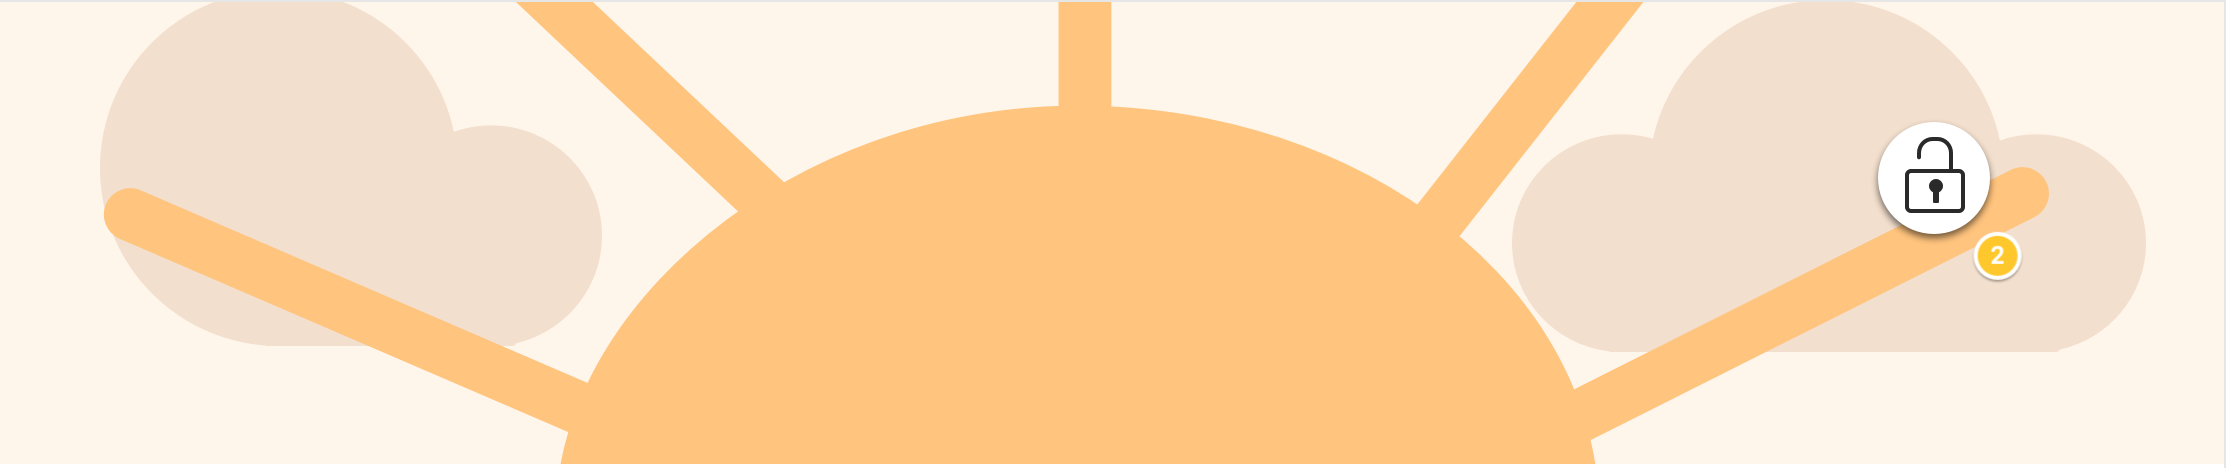
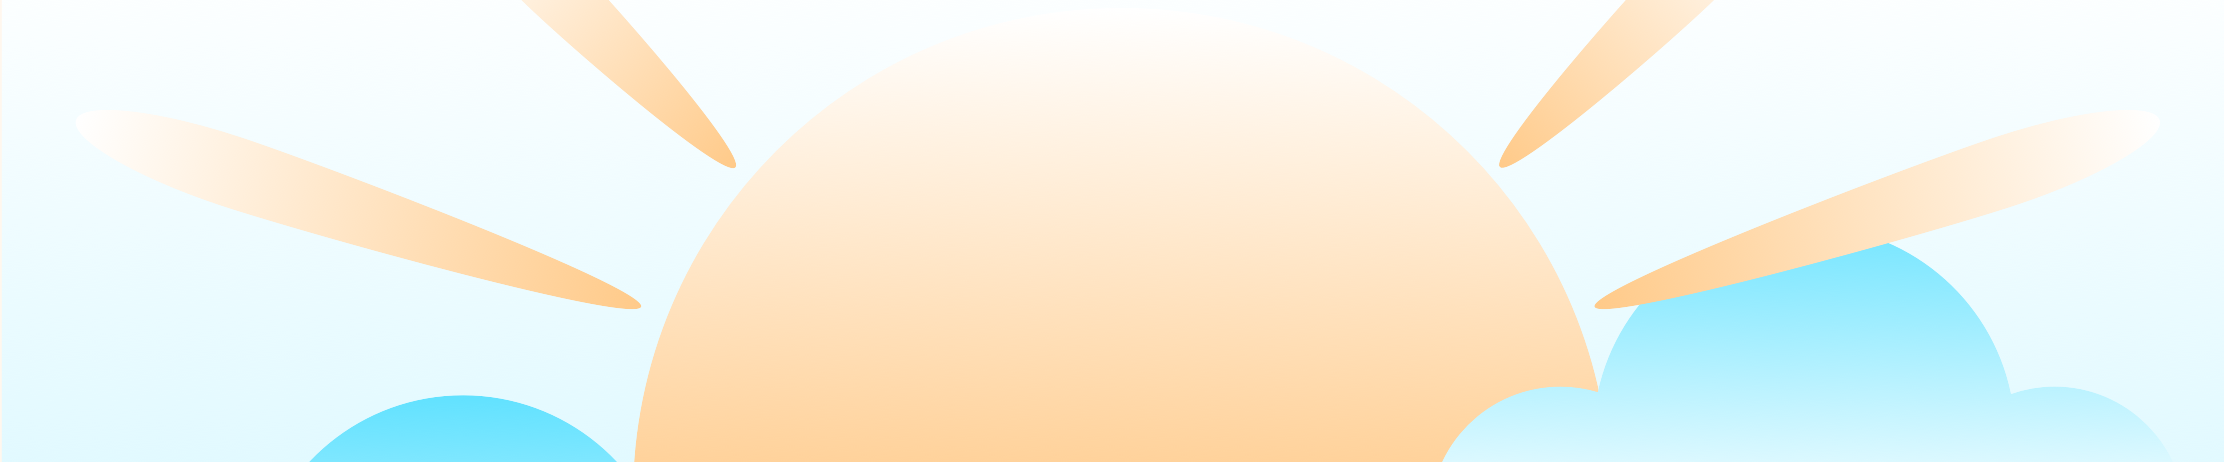
updated assets from new sketchfile

diff --git a/src/treeopen.js b/src/treeopen.js
@@ -2,21 +2,7 @@ import React, { Fragment } from 'react';
 
 import { Image, ImageBackground, Dimensions, View, StyleSheet, TouchableOpacity, Text } from 'react-native'
 
-const styles = StyleSheet.create({
-
-    greenButton: {
-        backgroundColor: 'rgba(131,242,196, 1.0)',
-        // justifyContent: 'center',
-        // alignItems: 'center',
-        // alignSelf: 'center',
-        // flex: 1,
-        // margin: 50,
-        // flexDirection: 'column'
-    }
-})
-
-
-const Tree = () => {
+const Tree = (props) => {
 
     return (
     
@@ -48,7 +34,7 @@ const Tree = () => {
 
             </ImageBackground>
 
-            <TouchableOpacity>
+            <TouchableOpacity onPress={props.handleNext}>
                 <View
                     style={{ zIndex: 2, backgroundColor: 'rgba(131,242,196, 1.0)', height: 60, width: 282 }}
                 >

diff --git a/src/converted.js b/src/converted.js
@@ -203,7 +203,7 @@ export default class Converted extends React.Component {
                 {/* header */}
                 <TouchableOpacity onPress={this.toggleLock}> 
 
-                    <Image source={ this.state.locked ? require("./lockedheader.png") : require("./sun.png")} 
+                    <Image source={ require("./sun.png")} 
                         resize="cover" 
                                             style={{
                                                 height: 231,

diff --git a/src/KidCheckIn.js b/src/KidCheckIn.js
@@ -32,7 +32,9 @@ export default class KidCheckIn extends React.Component {
         let kidKey = this.props.data.key
 
         return (
-            <View style={{ flex: 1, alignItems: 'center', width: 620, height: 524}}>
+
+            <View style={{ flex: 1, alignSelf: 'center', alignItems: 'center', width: 620, height: 524}}>
+
                 <Image
                     source={pic}
                     style={{ height: 108, width: 108, marginTop: 20}}
